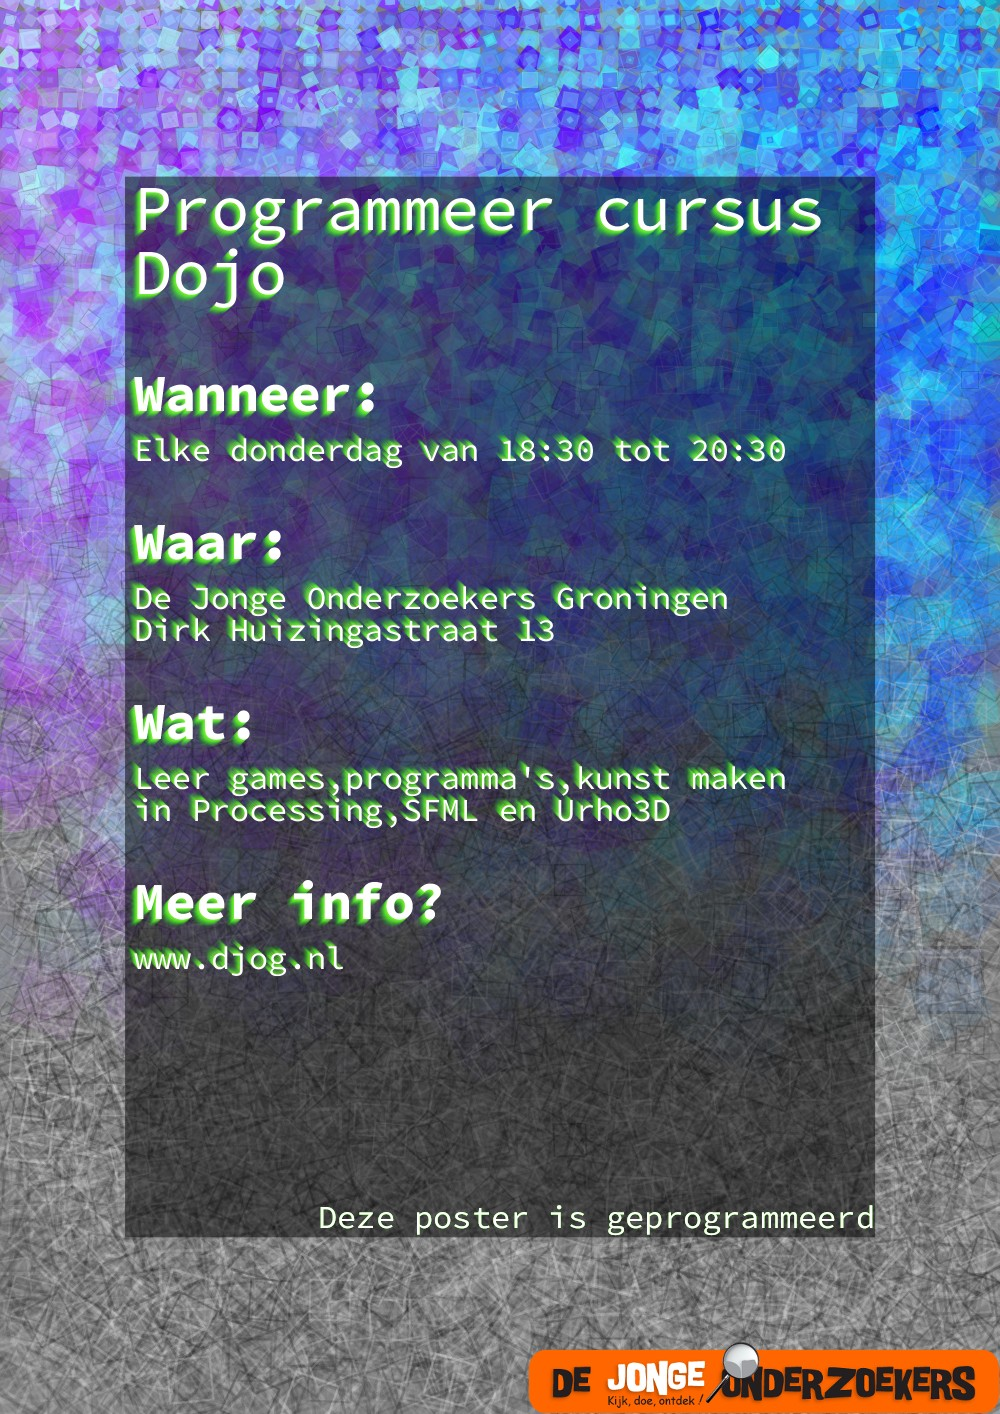
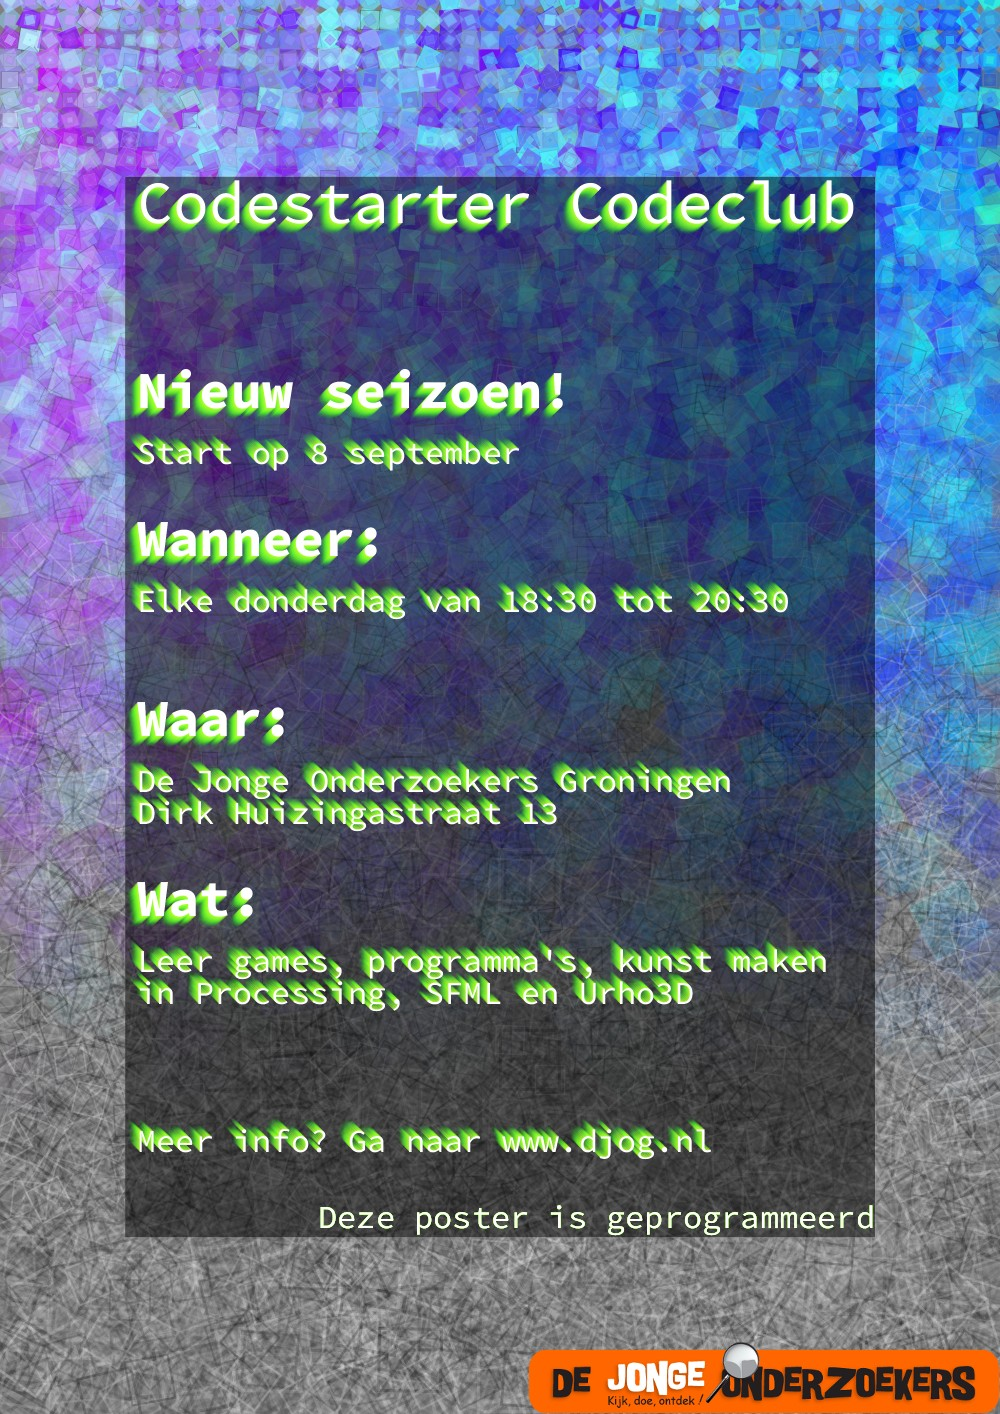
Kleurenposter geupdate

diff --git a/README.md b/README.md
@@ -32,22 +32,14 @@ maar je bent ook vrij je eigen weg te kiezen.
  * Leeftijd: 8-25 jaar
  * Benodigdheden: Laptop met WiFi
 
-## Vakantieperiode
+Heb je nog een vraag? Zie [Veelgestelde vragen](FAQ.md)
 
 Het is (voor ons al) vakantie! Wij blijven gewoon doorgaan :-) De cursusprijs van de vakantie is 10 euro. Ga je op vakantie? Dit is geen probleem:
 je bent in de vakantie ook welkom op de vrijdagavond, bij de [Arduino cursus](https://www.github.com/richelbilderbeek/ArduinoCourse).
 
 ![Zomervakantielessen](Publiciteit/Zomervakantielessen.png)
 
-In september begint het volgende seizoen.
+Op 8 september begint het volgende seizoen.
 
-## Hackathon
 
-We zijn van plan een hacathon te organiseren samen met de [Arduino cursus](https://github.com/richelbilderbeek/ArduinoCourse), de datum komt nog.
-
-Meer weten, zie [de Hackathon2016 GitHub](https://github.com/richelbilderbeek/Hackathon2016)
-
-# Veelgestelde vragen
-
-Zie [Veelgestelde vragen](FAQ.md)
 
